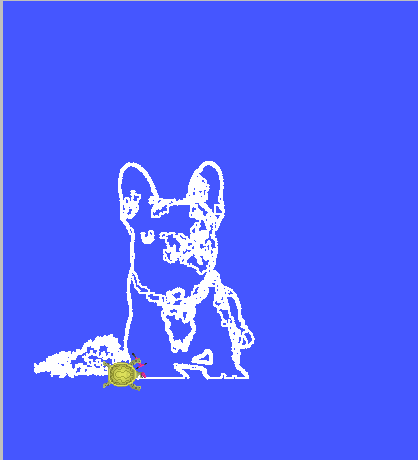
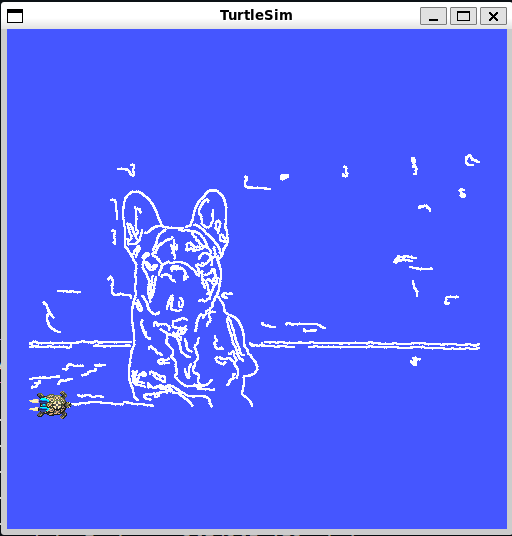
docs: muda dog e doc

diff --git a/docs/documentacao.md b/docs/documentacao.md
@@ -7,6 +7,8 @@
 3. [Arquitetura da Pipeline](#3-arquitetura-da-pipeline)
 4. [Detalhes de Implementação](#4-detalhes-de-implementação)
 5. [Troubleshooting Avançado](#5-troubleshooting-avançado)
+6. [Decisões de Implementação](#6-decisões-de-implementação-por-etapa)
+7. [Dificuldades Encontradas](#7-dificuldades-encontradas)
 
 ---
 
@@ -308,6 +310,156 @@ blurred = gaussian_blur(gray, size=17, sigma=4.0)  # Aumentar
 
 ---
 
-## 🎥 Vídeo Explicativo
+## 6. Decisões de Implementação por Etapa
+
+### 6.1. Por que Sobel + Histerese (e não Canny direto)?
+
+**Decisão**: Implementar manualmente Sobel + Non-Maximum Suppression + Histerese em vez de usar `cv2.Canny`.
+
+**Justificativa**:
+- **Aprendizado**: Entender cada etapa do pipeline de detecção de bordas
+- **Personalização**: Adicionar filtros customizados (compactness, Moore-Neighbor) depois
+- **Transparência**: Cada parâmetro (`high_ratio`, `low_ratio`, `sigma`) é explícito e ajustável
+- **Sem "caixa preta"**: Visão computacional é aprendizado, não só resultados
+
+Canny seria mais rápido (~1000x), mas esconderia a lógica.
+
+### 6.2. Por que Moore-Neighbor para Traçado de Contornos?
+
+**Decisão**: Implementar traçado manual do contorno em vez de usar `cv2.findContours`.
+
+**Justificativa**:
+- **Controle fino**: Adicionar filtros por `min_length` e `max_bbox_ratio`
+- **Ordem garantida**: Cada contorno é uma sequência conectada (x, y) em ordem
+- **Ruído filtrado**: Remover ruído de textura de fundo via `_contour_compactness()`
+- **Algoritmo clássico**: Moore-Neighbor é fundacional em visão computacional
+
+Trade-off: Muito mais lento que OpenCV, mas educacional e customizável.
+
+### 6.3. Por que Kernel Gaussiano 15×15 e σ=3.5?
+
+**Decisão**: Testar experimentalmente valores de size e sigma.
+
+**Justificativa**:
+- **5×5**: Deixa muitos artefatos e ruído fino
+- **9×9**: Parcialmente melhor, mas bordas ficam ainda finas/quebradas
+- **15×15**: Suaviza bem sem perder bordas importantes do cachorro
+- **σ=3.5**: Controla a "força" do desfoque — 3.5 foi escolhido após testes visuais
+
+**Resultado**: Blur suave o suficiente para remover ruído, mas mantendo contornos principais intactos.
+
+### 6.4. Por que Non-Maximum Suppression?
+
+**Decisão**: Incluir NMS para afinar bordas de ~5 pixels para ~1 pixel.
+
+**Justificativa**:
+- Sobel puro produz bordas **grossas** (vários pixels paralelos)
+- NMS compara cada pixel com vizinhos na direção do gradiente
+- Mantém só o máximo local → bordas de 1 pixel de espessura
+- Essencial para traçado de contorno preciso via Moore-Neighbor
+
+Sem NMS, Moore-Neighbor teria dificuldade em acompanhar bordas finas.
+
+### 6.5. Por que Histerese com low_ratio e high_ratio?
+
+**Decisão**: Usar dois limiares adaptativos em vez de limiar fixo.
+
+**Justificativa**:
+- **Problema com limiar fixo**: Perde bordas fracas ou captura ruído
+- **Histerese (Canny-style)**:
+  - Bordas fortes: `magnitude ≥ high_ratio * max(magnitude)`
+  - Bordas fracas: `magnitude ≥ low_ratio * max(magnitude)` E conectadas a fortes
+- **Resultado**: Bordas fracas só permanecem se tocam bordas fortes (menos falsos positivos)
+- **Flexibilidade**: `low_ratio=0.05` e `high_ratio=0.30` podem ser ajustados por imagem
+
+---
+
+## 7. Dificuldades Encontradas
+
+### 7.1. Double-Blur (Removido - Correção Crítica)
+
+**Problema**: Versão anterior aplicava `gaussian_blur()` **duas vezes**:
+1. Uma em `process_image()` antes de chamar `detect_edges()`
+2. Outra dentro de `detect_edges()` (duplicado)
+
+**Sintoma**: Bordas muito suavizadas, muitos detalhes perdidos, detecção de "bordas fantasmas".
+
+**Investigação**: 
+- Rodar `visualize=True` revelou bordas extremamente finas/falsas em padrões de ruído
+- Dobro blur → distorção severa de gradientes → Sobel detecta artefatos
+
+**Solução**: Remover blur duplicado de dentro de `detect_edges()`. Agora:
+```python
+# Em process_image()
+blurred = gaussian_blur(gray, size=15, sigma=3.5)
+edges = detect_edges(blurred, ...)  # ← recebe já suavizado
+
+# Em detect_edges()
+# ← REMOVIDO: blurred = gaussian_blur(gray) que causava double-blur
+```
+
+**Impacto**: Bordas agora são mais claras e estáveis. Contornos detectados com precisão.
+
+### 7.2. Filtro de Compactness Insuficiente Inicialmente
+
+**Problema**: Ao extrair contornos, muita "sujeira" de textura de fundo era incluída.
+
+**Investigação**:
+- Primeiro filtro: só `min_length=20` (removia pontos isolados)
+- Mas contornos espalhados pelo fundo passavam
+
+**Solução**: Adicionar `_contour_compactness()`:
+```python
+ratio = bbox_area / (H * W)
+if ratio > max_bbox_ratio:  # max_bbox_ratio=0.85
+    continue  # Descartar contorno "espalhado"
+```
+
+Contornos localizados (cachorro) têm ratio ~0.15–0.40. Ruído espalhado tem ratio ~0.80–1.0.
+
+**Impacto**: Redução drástica de artefatos. Só contornos "reais" (objeto compacto) são extraídos.
+
+### 7.3. Convolução Manual — Performance vs Aprendizado
+
+**Problema**: Implementação manual com loops `for i, for j` é lenta (~0.5s por imagem 400×300).
+
+**Alternativa considerada**: Usar `scipy.signal.convolve2d` (~10ms).
+
+**Decisão**: Manter convolução manual porque:
+- Projeto é educacional (entender o algoritmo)
+- Velocidade aceitável para imagens pequenas
+- Sem dependências extras além de NumPy
+
+**Mitigação**: Imagens maiores (~2000×2000) podem precisar otimização com NumPy vectorization.
+
+### 7.4. Mapeamento de Coordenadas Invertidas (Y-axis)
+
+**Problema**: Primeira versão invertia Y nas coordenadas turtlesim — imagem saía de cabeça para baixo.
+
+**Causa**: Esqueci que:
+- Imagem: origem (0,0) no canto superior esquerdo, Y aumenta para baixo
+- Turtlesim: origem (0,0) no inferior esquerdo, Y aumenta para cima
+
+**Solução**:
+```python
+ty = (H - py) * scale + margin + ...  # ← Inverter Y
+```
+
+**Verificação**: Desenho agora aparece na orientação correta.
+
+### 7.5. Parametrização Inconsistente Entre Arquivos
+
+**Problema**: Como descoberto no feedback — valores diferentes em `turtle_draw_node.py`, `launch.py`, `image_processor.py`, e `README`.
+
+**Causa**: Sem sincronização durante desenvolvimento. Cada arquivo tinha "valores que funcionavam" localmente.
+
+**Solução**: Decidir por um conjunto de referência (README, testado) e propagar:
+- `high_ratio = 0.30` (vs 0.15 anterior)
+- `min_contour_len = 80` (vs 20 anterior)
+- `pen_width = 2` (vs 1 anterior)
+
+**Impacto**: Comportamento consistente independente de como rodar (launch, CLI, direto do Python).
+
+---
 
 [📺 Assista ao vídeo completo do projeto](LINK_DO_VIDEO_AQUI)